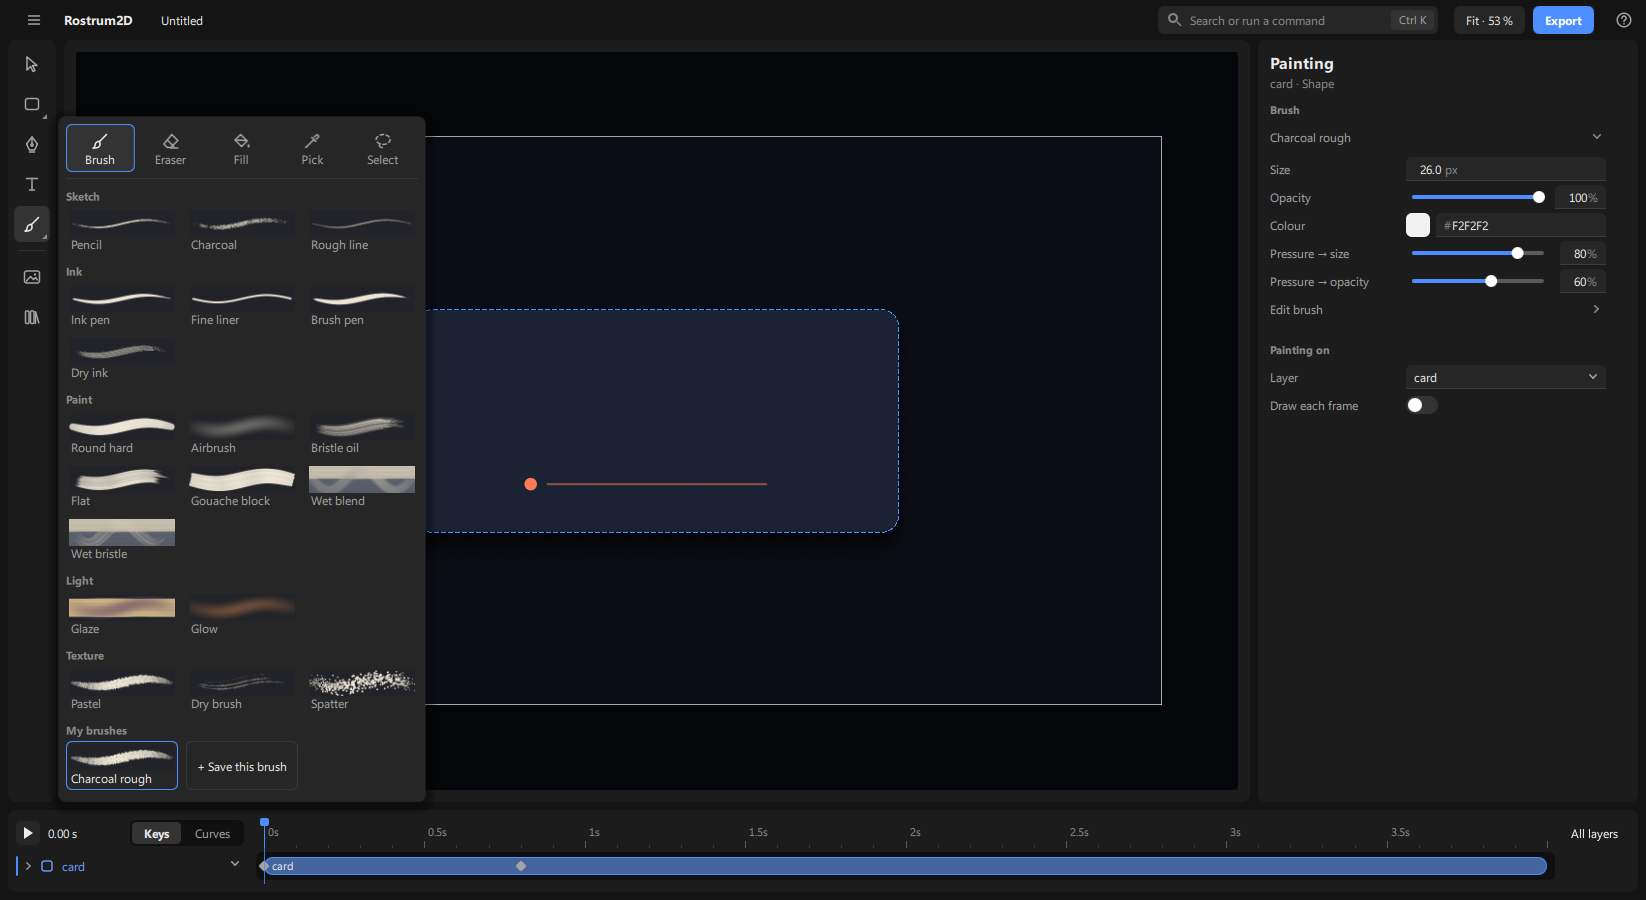
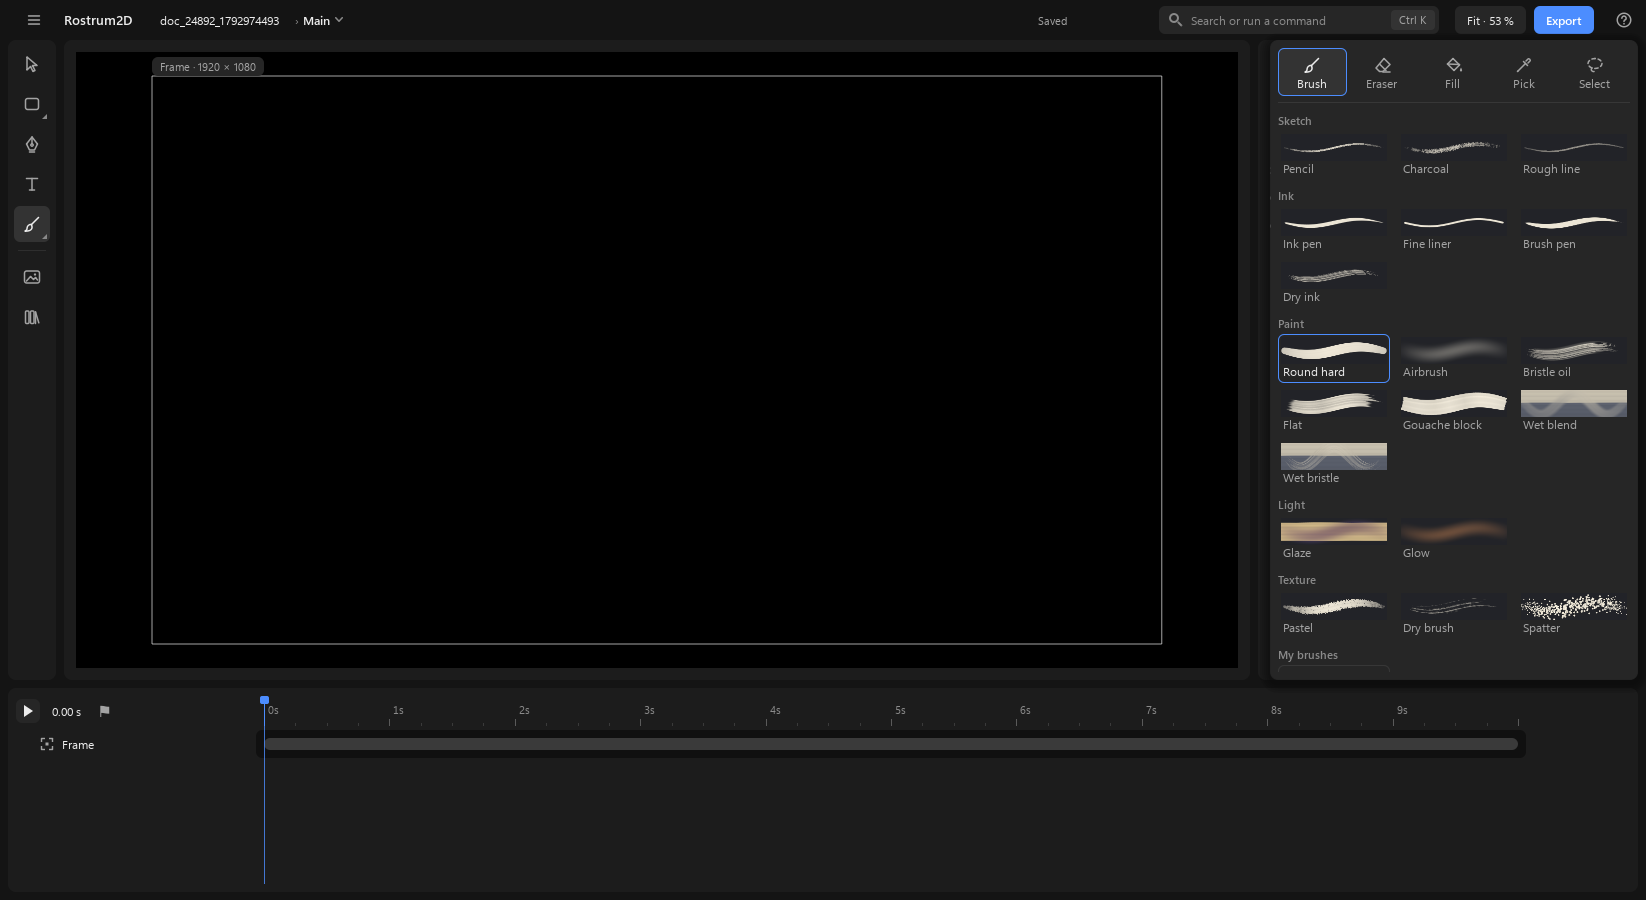
fix(2d): the Brush panel never covers the picture; opening it never resizes the canvas; a new drawing turns about its middle
The flyout opened beside the tool rail over a third of the canvas, and a stroke started there landed on the panel: nothing
painted, nothing said. It now opens over the settings column; a press on the canvas closes it and starts the stroke in the
same press. The Brush no longer folds the timeline, so the canvas keeps its size. A drawing made by its first stroke had its
turning point where the stroke began (88 % / 50 %); drawing.centre, in the same change, moves it to the middle without moving
anything on screen. Guides and the brush-panel picture updated; guard test by real press and drag.

diff --git a/apps/2d/screen/qml/BrushFlyout.qml b/apps/2d/screen/qml/BrushFlyout.qml
@@ -29,13 +29,26 @@ SmallPopup {
     property real floor: 10000         // the lowest it may reach (above the timeline's names column)
     MenuSpot { id: spot }
     y: Math.max(8, Math.min(at, Math.min(floor, parent ? parent.height : 0) - implicitHeight))
+    // The panel opens over the settings panel (the right column), never over the picture: nothing of the canvas is hidden,
+    // so a press anywhere on it closes the panel and starts the stroke in that same press (a click outside = CloseOnPressOutside,
+    // and the press goes on to the canvas). The settings it covers come back the moment it closes (a brush picked, or any click).
+    function settingsZone(item) {     // the visible settings panel's rectangle in the window, or null
+        if (!item || !item.visible) return null
+        if (item.popupsBeside === true && item.width > 0) { const q = item.mapToItem(parent, 0, 0); return { x: q.x, y: q.y, w: item.width, h: item.height } }
+        for (const c of item.children) { const z = settingsZone(c); if (z) return z }
+        return null
+    }
     function show(button) {
         const p = button.mapToItem(parent, button.width, 0)
+        const w = 3 * tileW + 2 * 8 + 2 * padding
+        const z = settingsZone(button.Window.window.contentItem)
         spot.anchor = button
-        x = p.x + 8
-        floor = spot.floorBelow(x, 3 * tileW + 2 * 8 + 2 * padding, p.y)     // above the timeline's names, not over them
-        room = floor - 8 - 2 * padding - 48 - 1 - 2 * 6
-        at = p.y - padding
+        x = z ? Math.max(p.x + 8, z.x + z.w - w) : p.x + 8       // the panel's right edge lined up with the settings panel's
+        const top = z ? z.y : p.y - padding
+        floor = spot.floorBelow(x, w, top)     // above the timeline's names, not over them
+        if (z) floor = Math.min(floor, z.y + z.h)     // and within the settings panel: the brushes scroll for the rest
+        room = floor - Math.max(8, top) - 2 * padding - 48 - 1 - 2 * 6
+        at = top
         open()
     }
     property var hoverTile: null       // the brush the pointer rests on: its stroke shows larger (bigPreview)

diff --git a/apps/2d/screen/qml/Main.qml b/apps/2d/screen/qml/Main.qml
@@ -25,8 +25,8 @@ AppShell {
     // the frame again only when that layout changes (Stage.qml), never when a panel's contents change.
     // ⊟ folds the timeline to its header (screen state, never the document).
     property bool timelineFolded: false
-    // Each tool remembers its own timeline height (the-screen.md §2.7): Brush starts compact, every other tool full
-    property var foldedFor: ({ "draw": true })
+    // Each tool remembers its own timeline height (the-screen.md §2.7): every tool starts at the full height, so opening the Brush never resizes the canvas
+    property var foldedFor: ({})
     readonly property string toolNow: backend.tool
     onToolNowChanged: timelineFolded = foldedFor[toolNow] === true
     function fold(on) { const m = Object.assign({}, foldedFor); m[toolNow] = on; foldedFor = m; timelineFolded = on }

diff --git a/apps/2d/screen/tests/test_brush_click.py b/apps/2d/screen/tests/test_brush_click.py
@@ -17,7 +17,7 @@ def _child(folder):
     sys.path[:0] = [str(ROOT), str(SCREEN)]
     import checkout_paths
     checkout_paths.use_this_checkout()
-    from PySide6.QtCore import QObject
+    from PySide6.QtCore import QObject, Qt
     from rostrum_gui.app import qt_app
     from screen2d.click_steps import do_click_step
     from screen2d.files2d import blank
@@ -30,6 +30,21 @@ def _child(folder):
     do_click_step(session.win, "clickobj", ["rail_brush"], "clickobj rail_brush")   # a real press and release
     fly = session.win.findChild(QObject, "brushFlyout")
     print("panel:", "open" if fly is not None and fly.property("opened") else "closed", "tool:", b.tool, flush=True)
+    # a stroke begun at the picture's left edge (where the panel once lay) closes the panel and paints, in that one press
+    from PySide6.QtCore import QPoint, QPointF
+    from PySide6.QtTest import QTest
+    st = session.win.findChild(QObject, "stage")
+    o, k = st.property("compOrigin"), st.property("compScale")
+    q = st.mapToScene(QPointF(o.x() + 100 * k, o.y() + 400 * k))
+    a = QPoint(round(q.x()), round(q.y()))
+    QTest.mousePress(session.win, Qt.LeftButton, Qt.NoModifier, a)
+    for i in range(1, 8):
+        QTest.mouseMove(session.win, a + QPoint(20 * i, 5 * i))
+        QTest.qWait(20)
+    QTest.mouseRelease(session.win, Qt.LeftButton, Qt.NoModifier, a + QPoint(140, 35))
+    QTest.qWait(300)
+    print("panel then:", "open" if fly.property("opened") else "closed", "painted:", any(
+        l["type"] == "drawing" for l in b.comp()["layers"]), flush=True)
     app.processEvents()
     session.close()
 
@@ -50,6 +65,7 @@ def test_a_new_piece_picks_nothing_and_a_real_brush_click_opens_the_panel(tmp_pa
         pytest.fail("the Brush click froze the app (no answer in 60 s)")
     assert "picked: scene" in out, out
     assert "panel: open tool: draw" in out, out
+    assert "panel then: closed painted: True" in out, out      # no dead zone: the press that closes the panel paints
 
 
 if __name__ == "__main__":

diff --git a/apps/2d/python/rostrum2d/ops_draw.py b/apps/2d/python/rostrum2d/ops_draw.py
@@ -7,6 +7,7 @@ from __future__ import annotations
 import copy
 
 from rostrum_core import Param
+from rostrum_core.keys import keys_of
 from rostrum_core.errors import codes
 from rostrum_core.tree import index
 from rostrum_paint import linked
@@ -135,3 +136,21 @@ def frame_move(ctx, targets, args):
     others = [f for f in frames if f["id"] != t]
     ctx.set(t, "at", to)
     ctx.move(t, parent, "frames", _place(others, to))
+
+
+@R.operation("drawing.centre", "Turn a new drawing about its middle, as every drawn shape does, without moving anything you see "
+             "(the pen's first stroke starts a drawing where the stroke began, so its turning point sat there). Only a drawing "
+             "not turned, stretched or keyed at its position, scale and turning point.", target="drawing",
+             label="Centre the turning point", importance="deep")
+def drawing_centre(ctx, targets, args):
+    for t in targets:
+        item = ctx.item(t)
+        if item.get("rotation") or any(keys_of(item, p) for p in ("x", "y", "scale", "scaleX", "scaleY", "rotation", "anchorX", "anchorY")):
+            continue
+        w, h = int(item.get("w", 1920)), int(item.get("h", 1080))
+        k = item.get("scale", 1.0)
+        for axis, size, stretch in (("X", w, item.get("scaleX", 1.0)), ("Y", h, item.get("scaleY", 1.0))):
+            move = (0.5 - item.get("anchor" + axis, 0.5)) * size * k * stretch
+            if abs(move) > 1e-6:
+                ctx.set(t, axis.lower(), item.get(axis.lower(), 0.0) + move)
+                ctx.set(t, "anchor" + axis, 0.5)

diff --git a/apps/2d/screen/screen2d/strokes.py b/apps/2d/screen/screen2d/strokes.py
@@ -51,6 +51,7 @@ class StrokeDrag:
     def __init__(self, doc, who, layer_id: str, t: float, fps: float, brush: dict, x: float, y: float, placer, pressure=1.0,
                  make=None, layer: str = "", lean=None, wet: bool = False, fill: dict | None = None):
         self.doc, self.who, self.sid, self.points, self._waiting, self.wet = doc, who, random_id("stroke"), [], False, wet
+        self._made = layer_id if make else None      # a drawing this stroke starts: its turning point ends in its middle
         self._drag = Drag(doc, who, "Paint") if make or not wet else None
         try:
             if make:
@@ -116,12 +117,15 @@ class StrokeDrag:
 
     def end(self):
         """The one change, or None if the stroke was refused."""
+        centre = [{"op": "drawing.centre", "target": [self._made]}] if self._made else []
         if self._drag is None:
             return self.doc.apply([self._call], self.who, label="Paint")
         if self.wet:
-            return self._drag.end(calls=[self._call])
+            return self._drag.end(calls=[self._call, *centre])
         try:
             self.show()
+            if centre:
+                self._drag.preview(centre)
         except BaseException:
             self.cancel()
             raise

diff --git a/apps/2d/guides/drawing.md b/apps/2d/guides/drawing.md
@@ -8,7 +8,7 @@ Paint always belongs to something. Paint on a shape, a text, a picture or a path
 
 ## 1. Pick the brush
 
-1. Click **Brush** in the tool rail (the column of icons at the left of the canvas), or press **B**. The **brush panel** opens beside the rail.
+1. Click **Brush** in the tool rail (the column of icons at the left of the canvas), or press **B**. The **brush panel** opens over the settings column at the right, so the whole picture stays free: click or drag on the canvas and the panel closes and the stroke starts in that same press.
 2. The top row of the panel holds the five paint tools:
 
    | Tool | Key | Does |
@@ -23,7 +23,7 @@ Paint always belongs to something. Paint on a shape, a text, a picture or a path
 3. Under them are **19 brushes in five groups**: Sketch, Ink, Paint, Light and Texture. Each shows a real stroke of itself; rest the pointer on one and its stroke shows larger. Click one; it sets every brush setting but your colour.
 4. Last come **My brushes**: the brushes you saved, from this project and from your own library (see "Save your own brush" below). A brush kept in only one of the two says which, small, on the corner of its stroke: **project** or **library**. Right-click one for what you can do with it: **Rename** (type, then Enter), **Duplicate** (a copy named "… copy", to change without losing the first), **Also keep in my library** or **Also keep in this project** (when it is only in one), **Remove from this project** or **Remove from my library** (when it is in both), and **Delete** (gone from both).
 
-![The brush panel beside the tool rail; under My brushes, a brush you saved](pictures/brush-panel.png)
+![The brush panel over the settings column, the picture clear beside it](pictures/brush-panel.png)
 
 5. What you paint on depends on what is picked:
    - **a shape, a text, a picture or a path**: the paint goes onto it, kept inside its outline. Strokes that go past the edge are simply not shown there. Its edge is drawn dashed so you can see what you are painting on.
@@ -31,7 +31,7 @@ Paint always belongs to something. Paint on a shape, a text, a picture or a path
    - **nothing**: **your first stroke makes a new drawing** right where you paint, inside or outside the frame, and picks it. It starts just big enough for the stroke. It is one step, so **Ctrl+Z** takes back the drawing and the stroke together.
 6. **Esc** steps back one level at a time: first picked strokes are let go, then you are back on Move (the brush panel closes with the Brush, however you opened it). **V** goes straight to Move.
 
-When the brush is on, the timeline shrinks to its compact height: the header row and only the drawing's own row. Click the button at the right end of the ruler to bring all the rows back; each tool remembers the height you last used with it.
+The timeline keeps its height when the brush goes on, so the picture does not change size. Click the button at the right end of the ruler to fold it to the header row and only the drawing's own row (**Only this layer**); each tool remembers the height you last used with it.
 
 Paint only goes on a layer you can see. If the layer is hidden, or has no opacity at the playhead, the stroke is refused and the top bar says so ("title isn't showing at 2.4 s"): show it, or move the playhead to where it shows.
 

diff --git a/apps/2d/screen/README.md b/apps/2d/screen/README.md
@@ -96,7 +96,7 @@ bottom           Timeline = the layers list: a name column (fold, rename, drag t
 
 ## The brush panel and the settings panel while painting (H50, painting design phase 1)
 
-- **The Brush group's flyout is the brush panel** (`BrushFlyout.qml`): the five paint tools Brush B, Eraser E,
+- **The Brush group's flyout is the brush panel** (`BrushFlyout.qml`; it opens over the settings column, never over the picture, so a press on the canvas closes it and starts the stroke; the timeline is not folded by Brush): the five paint tools Brush B, Eraser E,
   Fill G, Pick I, Select S (`paint_tool.py` as `backend.paintTool`: which is on is read from the brush's erase mode,
   Fill, Pick and Select strokes, so they never disagree; the rail's Brush icon is the last one used), then the 19
   shipped brushes (`brush_presets.py`: only existing brush settings, never a colour) as real strokes painted by the

diff --git a/apps/2d/DESIGN.md b/apps/2d/DESIGN.md
@@ -170,8 +170,8 @@ Everything on screen sits in one of five tiers. An element earns its tier from t
 - **Compact:** the header, the ruler with its markers, and **only the selected layer's row** (its bar, its keys, a
   drawing's frames). Its name is a menu of all the layers, so another layer is one click away. For canvas moments.
 - Switch with the button at the right end of the timeline's header, or drag its top edge. **Move remembers its own
-  height, Draw its own** (Draw starts compact). Picking Draw gives the canvas the room; going back to Move brings the
-  rows back. No extra click, and nothing moves that you didn't ask for.
+  height, Draw its own** (both start full, so the canvas never changes size on picking Draw). Fold it for painting room.
+  Nothing moves that you didn't ask for.
 
 ### Where the flows pull apart, and how I chose
 
